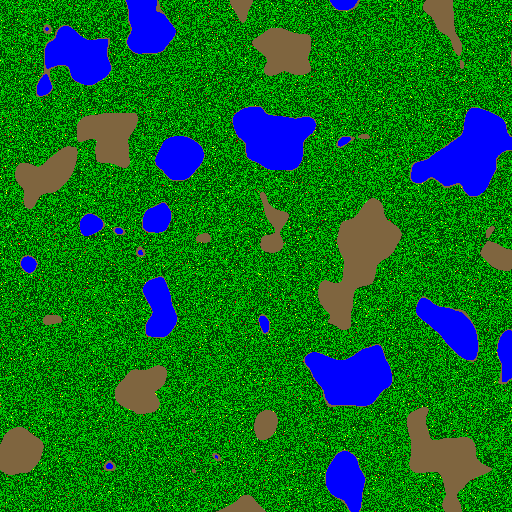
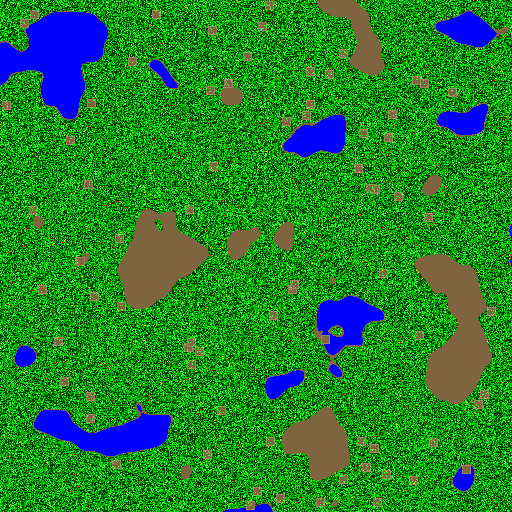
More bugs fixed, this game might be playable in a century!

diff --git a/roguelike/Game.cpp b/roguelike/Game.cpp
@@ -139,6 +139,9 @@ void Game::game_event() {
 	case GameEvent::LOAD_LEVEL:
 		load_level();
 		break;
+	case GameEvent::TEST_LEVEL:
+		test_level();
+		break;
 	case GameEvent::EXIT:
 		exit_game();
 		break;
@@ -158,6 +161,7 @@ void Game::exit_game() {
 
 void Game::update() {
 	if (GameObjects::new_turn && GameObjects::player_controlled) {
+//		_level->update_tile(_player->get_world_pos()[0], _player->get_world_pos()[1], 0);
 		update_characters();
 		_turn++;
 		
@@ -239,7 +243,7 @@ void Game::update_characters() {
 	std::vector<Character*>* b = Character::get_chbuff();
 	for (Character* c : (*b)) {
 		c->update();
-		_level->update_tile(c->get_world_pos()[0], c->get_world_pos()[1], 0);
+//		_level->update_tile(c->get_world_pos()[0], c->get_world_pos()[1], 0);
 	}
 }
 
@@ -533,7 +537,7 @@ void Game::close_inventory() {
 }
 
 void Game::upwards() {
-	if (_level->get_type() == Level::GALAXY) {
+	if (_level->get_type() == Level::GALAXY || Level::NONE) {
 		return;
 	}
 	else if (_level->get_type() == Level::STAR_SECTOR) {
@@ -545,7 +549,7 @@ void Game::upwards() {
 	else if (_level->get_type() == Level::WORLD_MAP) {
 		to_solar_system();
 	}
-	else if (_level->get_type() != Level::SPACE) {
+	else if (_level->get_type() > Level::WORLD_MAP) {
 		to_world_map();
 	}
 }
@@ -712,4 +716,20 @@ void Game::fix_tile_id() {
 			std::cout << "Tile ID fixed successfully to " << static_cast<T*>(a)->id << std::endl;
 		}
 	}
+}
+
+void Game::test_level() {
+	destroy_main_menu();
+	TCODConsole::root->clear();
+
+	_level = new Level;
+	_level->generate_level(128, Level::TEST);
+	
+	_player = new Player(32, 32, 0, '@', TCODColor::blue);
+	level_setup();
+
+	_log = new Log;
+	_status = new Status(_player, &_time);
+
+	GameObjects::update = true;
 }

diff --git a/roguelike/Level.cpp b/roguelike/Level.cpp
@@ -46,6 +46,10 @@ void Level::generate_level(int size, LEVEL_TYPE type) {
 	
 	switch (type) {
 	
+	case TEST:
+		generate_test_level();
+		break;
+
 	case GALAXY:
 		generate_space();
 		generate_space_obj(Random::one_to_sixteen, GALAXY);
@@ -236,7 +240,7 @@ void Level::update_tile(int x, int y, int z) {
 	std::vector<Actor*> actors = Actor::get_actors(x, y, z);
 	_map[x][y].clear();
 	for (Actor* a : actors) {
-		_fovmap->setProperties(a->get_world_pos()[0], a->get_world_pos()[1], a->is_transparent(), a->is_impassable());
+		_fovmap->setProperties(a->get_world_pos()[0], a->get_world_pos()[1], a->is_transparent(), !a->is_impassable());
 		_map[x][y].push_back(a);
 	}
 }
@@ -433,4 +437,39 @@ Level* Level::load_level_file(std::string path) {
 	level->update();
 	
 	return level;
+}
+
+void Level::generate_test_level() {
+	
+	//Generate the floor
+	for (int x = 0; x < _width; x++) {
+		for (int y = 0; y < _height; y++) {
+			new Tile(x, y, 0, Tile::STEEL_FLOOR);
+		}
+	}
+	
+	//Generate the border
+	for (int x = 0; x < _width; x++) {
+		new Tile(x, 0, 0, Tile::STEEL_WALL);
+		new Tile(x, _height - 1, 0, Tile::STEEL_WALL);
+	}
+	for (int y = 1; y < _height - 1; y++) {
+		new Tile(0, y, 0, Tile::STEEL_WALL);
+		new Tile(_width - 1, y, 0, Tile::STEEL_WALL);
+	}
+
+	//Generate some obstacles
+	for (int x = 1; x < _width - 1; x++) {
+		for (int y = 1; y < _height - 1; y++) {
+			if (Random::one_to_eight(Random::generator) == 1) {
+				new Tile(x, y, 0, Tile::WOOD);
+			}
+		}
+	}
+
+	//Generate monsters
+	new Monster(1, 1, 0);
+	new Monster(_width - 1, 1, 0);
+	new Monster(1, _height - 1, 0);
+	new Monster(_width - 1, _height - 1, 0);
 }

diff --git a/roguelike/Actor.cpp b/roguelike/Actor.cpp
@@ -149,14 +149,32 @@ void Actor::move(const std::string& dir) {
 	int ym = GameObjects::map_dir.at(dir).second;
 
 	std::vector<Actor*> checkvec = Actor::get_actors(_screen_x + xm, _screen_y + ym, _screen_z);
-	
+	std::vector<std::vector<std::vector<Actor*>>>* invec = Actor::get_map();
+
+	if (checkvec.size() == 0) {
+		return;
+	}
+
 	for (int i = 0; i < checkvec.size(); i++) {
 		if (checkvec[i]->is_impassable()) {
-			checkvec[i]->on_collide();
+//			checkvec[i]->on_collide();
 			return;
 		}
 	}
 
+	for (int i = 0; i < (*invec)[_world_x][_world_y].size(); i++) {
+		if ((*invec)[_world_x][_world_y][i] == this) {
+			(*invec)[_world_x][_world_y].erase((*invec)[_world_x][_world_y].begin() + i);
+		}
+	}
+
+	(*invec)[_world_x + xm][_world_y + ym].push_back(this);
+	
+	for (Actor* a : Actor::get_actors(_world_x, _world_y, 0)) {
+		Level::get_fov_map()->setProperties(_world_x, _world_y, a->is_transparent(), !a->is_impassable());
+	}
+	Level::get_fov_map()->setProperties(_world_x + xm, _world_y + ym, _transparent, !_impassable);
+	
 	this->set_position(_screen_x + xm, _screen_y + ym, _screen_z);
 	this->set_world_position(_world_x + xm, _world_y + ym, _world_z);
 }

diff --git a/roguelike/Level.h b/roguelike/Level.h
@@ -13,17 +13,21 @@ class Level
 public:
 	enum LEVEL_TYPE {
 		NONE,
+		TEST,
 		GALAXY,
 		STAR_SECTOR,
 		SOLAR_SYSTEM,
 		SPACE,
+		
+		// ALL LEVEL TYPES GREATER THAN WORLD_MAP ARE SURFACE LEVELS
+		WORLD_MAP,
+		
 		GRASSLAND,
 		FOREST,
 		HILLS,
 		DESERT,
 		SNOWY_TAIGA,
 		OCEAN,
-		WORLD_MAP
 	};
 	
 	enum GENERATION_FLAG {
@@ -80,6 +84,8 @@ public:
 	std::string get_savedir() { return _savedir; }
 
 	void set_savedir(const std::string& dir) { _savedir = dir; }
+
+	void generate_test_level();
 
 private:
 	int _width, _height;

diff --git a/roguelike/Player.cpp b/roguelike/Player.cpp
@@ -56,7 +56,12 @@ void Player::move(const std::string& dir) {
 	}
 
 	(*invec)[_world_x + xm][_world_y + ym].push_back(this);
-
+	
+	for (Actor* a : Actor::get_actors(_world_x, _world_y, 0)) {
+		Level::get_fov_map()->setProperties(_world_x, _world_y, a->is_transparent(), !a->is_impassable());
+	}
+	Level::get_fov_map()->setProperties(_world_x + xm, _world_y + ym, _transparent, !_impassable);
+	
 	this->set_position(_screen_x + xm, _screen_y + ym, _screen_z);
 	this->set_world_position(_world_x + xm, _world_y + ym, _world_z);
 	

diff --git a/roguelike/GUI.cpp b/roguelike/GUI.cpp
@@ -381,6 +381,9 @@ void MainMenu::draw(bool force) {
 			_text[1].color = TCODColor(std::cos(GameObjects::time) * 255, std::sin(GameObjects::time) * 255, std::tan(GameObjects::time) * 255);
 		}
 	}
+	if (Input::get_last_key().shift && Input::get_last_key().vk == TCODK_1) {
+		GameEvent::set_event(GameEvent::TEST_LEVEL);
+	}
 }
 
 ESCMenu::ESCMenu() : SelectionBox(GameObjects::screen_width / 2 - 13, GameObjects::screen_height / 2 - 10, 24, 12, std::vector<Text>()) {

diff --git a/roguelike/AI.cpp b/roguelike/AI.cpp
@@ -28,7 +28,7 @@ void AI::simple_follow(Character* c) {
 	int sposy = c->get_world_pos()[1];
 	
 	TCODPath path = TCODPath(Level::get_fov_map(), 1.0f);
-	path.compute(sposx, sposy, _player->get_world_pos()[0], _player->get_world_pos()[1]);
+	path.compute(sposx, sposy, _player->get_world_pos()[0]-1, _player->get_world_pos()[1]-1);
 	
 	if (path.size() == 0) {
 		return;

diff --git a/roguelike/Game.h b/roguelike/Game.h
@@ -105,6 +105,8 @@ public:
 	template<typename T>
 	void fix_tile_id();
 
+	void test_level();
+
 private:
 	
 	int _screen_width, _screen_height, _num_actors_drawn, _num_updates, _turn;

diff --git a/roguelike/Character.cpp b/roguelike/Character.cpp
@@ -65,5 +65,5 @@ Monster::Monster(int x, int y, int z) : Character(x, y, z) {
 	_c = 'M';
 	_fcolor = TCODColor::brass;
 	_name = "Monster";
-	_speed = 500;
+	_speed = 1000;
 }

diff --git a/roguelike/GameEvent.h b/roguelike/GameEvent.h
@@ -24,6 +24,7 @@ public:
 		DEHIGHLIGHT_PLAYER,
 		SAVE_SCREEN,
 		LOAD_LEVEL,
+		TEST_LEVEL,
 		EXIT,
 	};
 	enum class GAME_STATUS {
